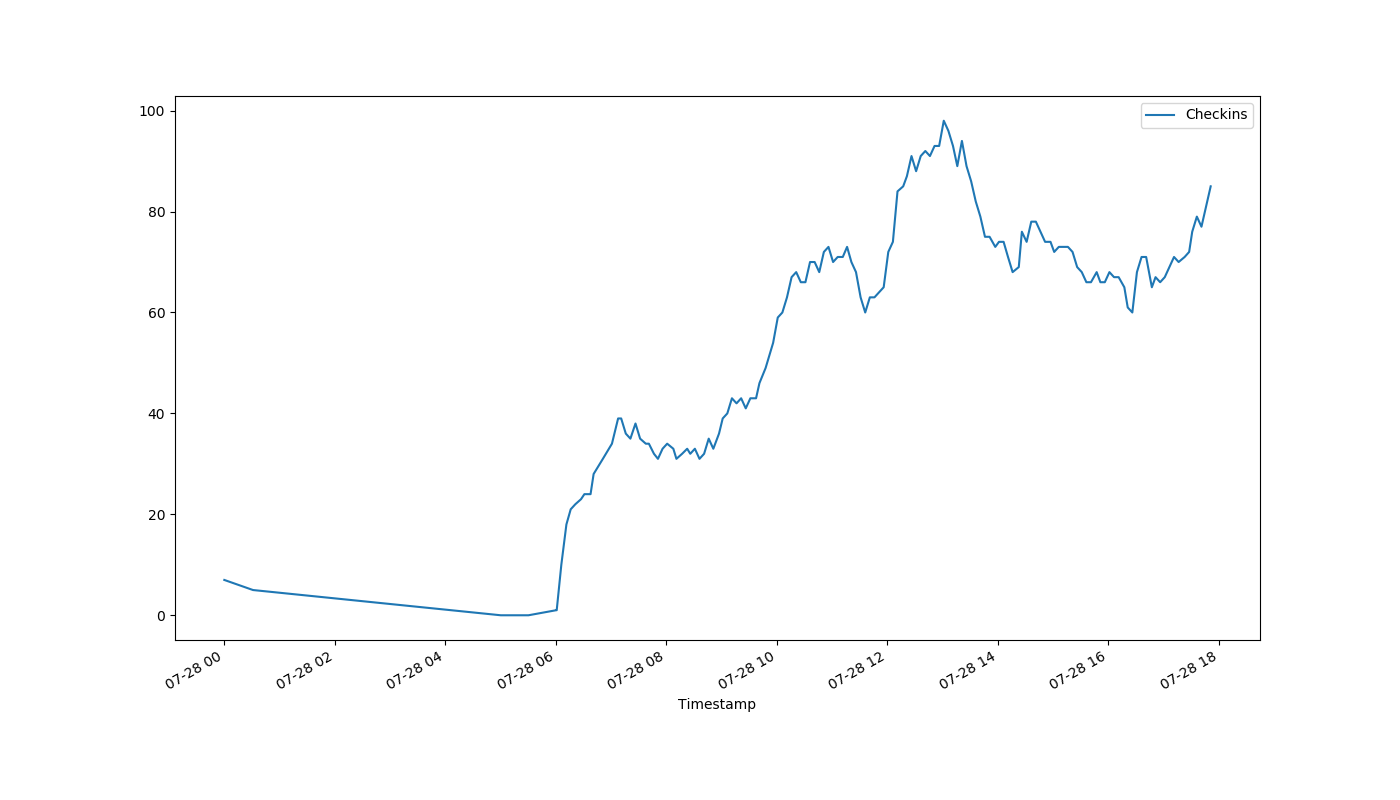
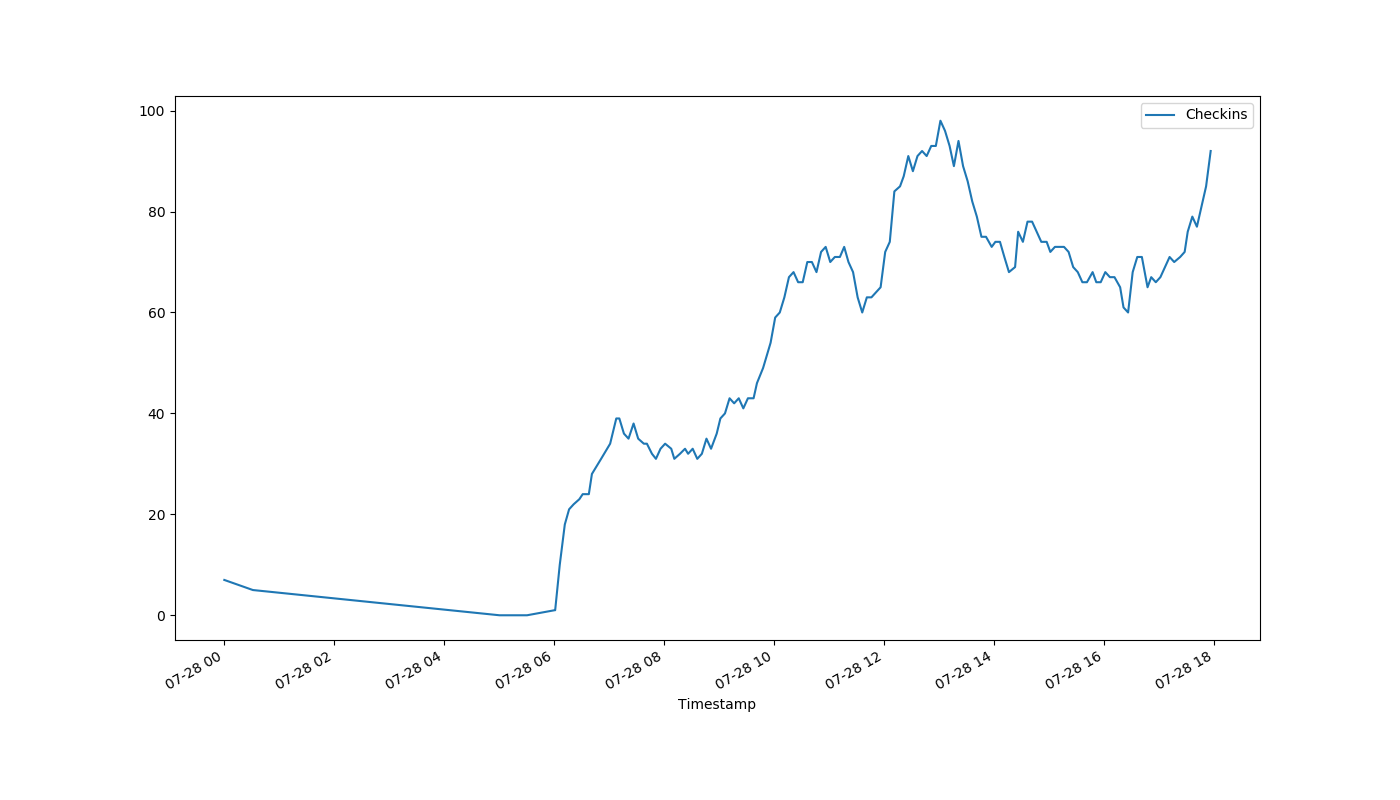
auto-Jul-28-17:57:36

diff --git a/index.html b/index.html
@@ -1,1 +1,1 @@
-<!DOCTYPE html><html><head><meta http-equiv="refresh" content="30"><link rel='stylesheet' href='holmcurrent.css'></head><body><p id='count'>85</p><div id='graph-wrap'><img id='graph' src='holmgraph-Jul-28.png'></div><p id='updated'>Last updated 17:51:15 / 17:51:05</p></body></html>
+<!DOCTYPE html><html><head><meta http-equiv="refresh" content="30"><link rel='stylesheet' href='holmcurrent.css'></head><body><p id='count'>92</p><div id='graph-wrap'><img id='graph' src='holmgraph-Jul-28.png'></div><p id='updated'>Last updated 17:56:15 / 17:56:05</p></body></html>
